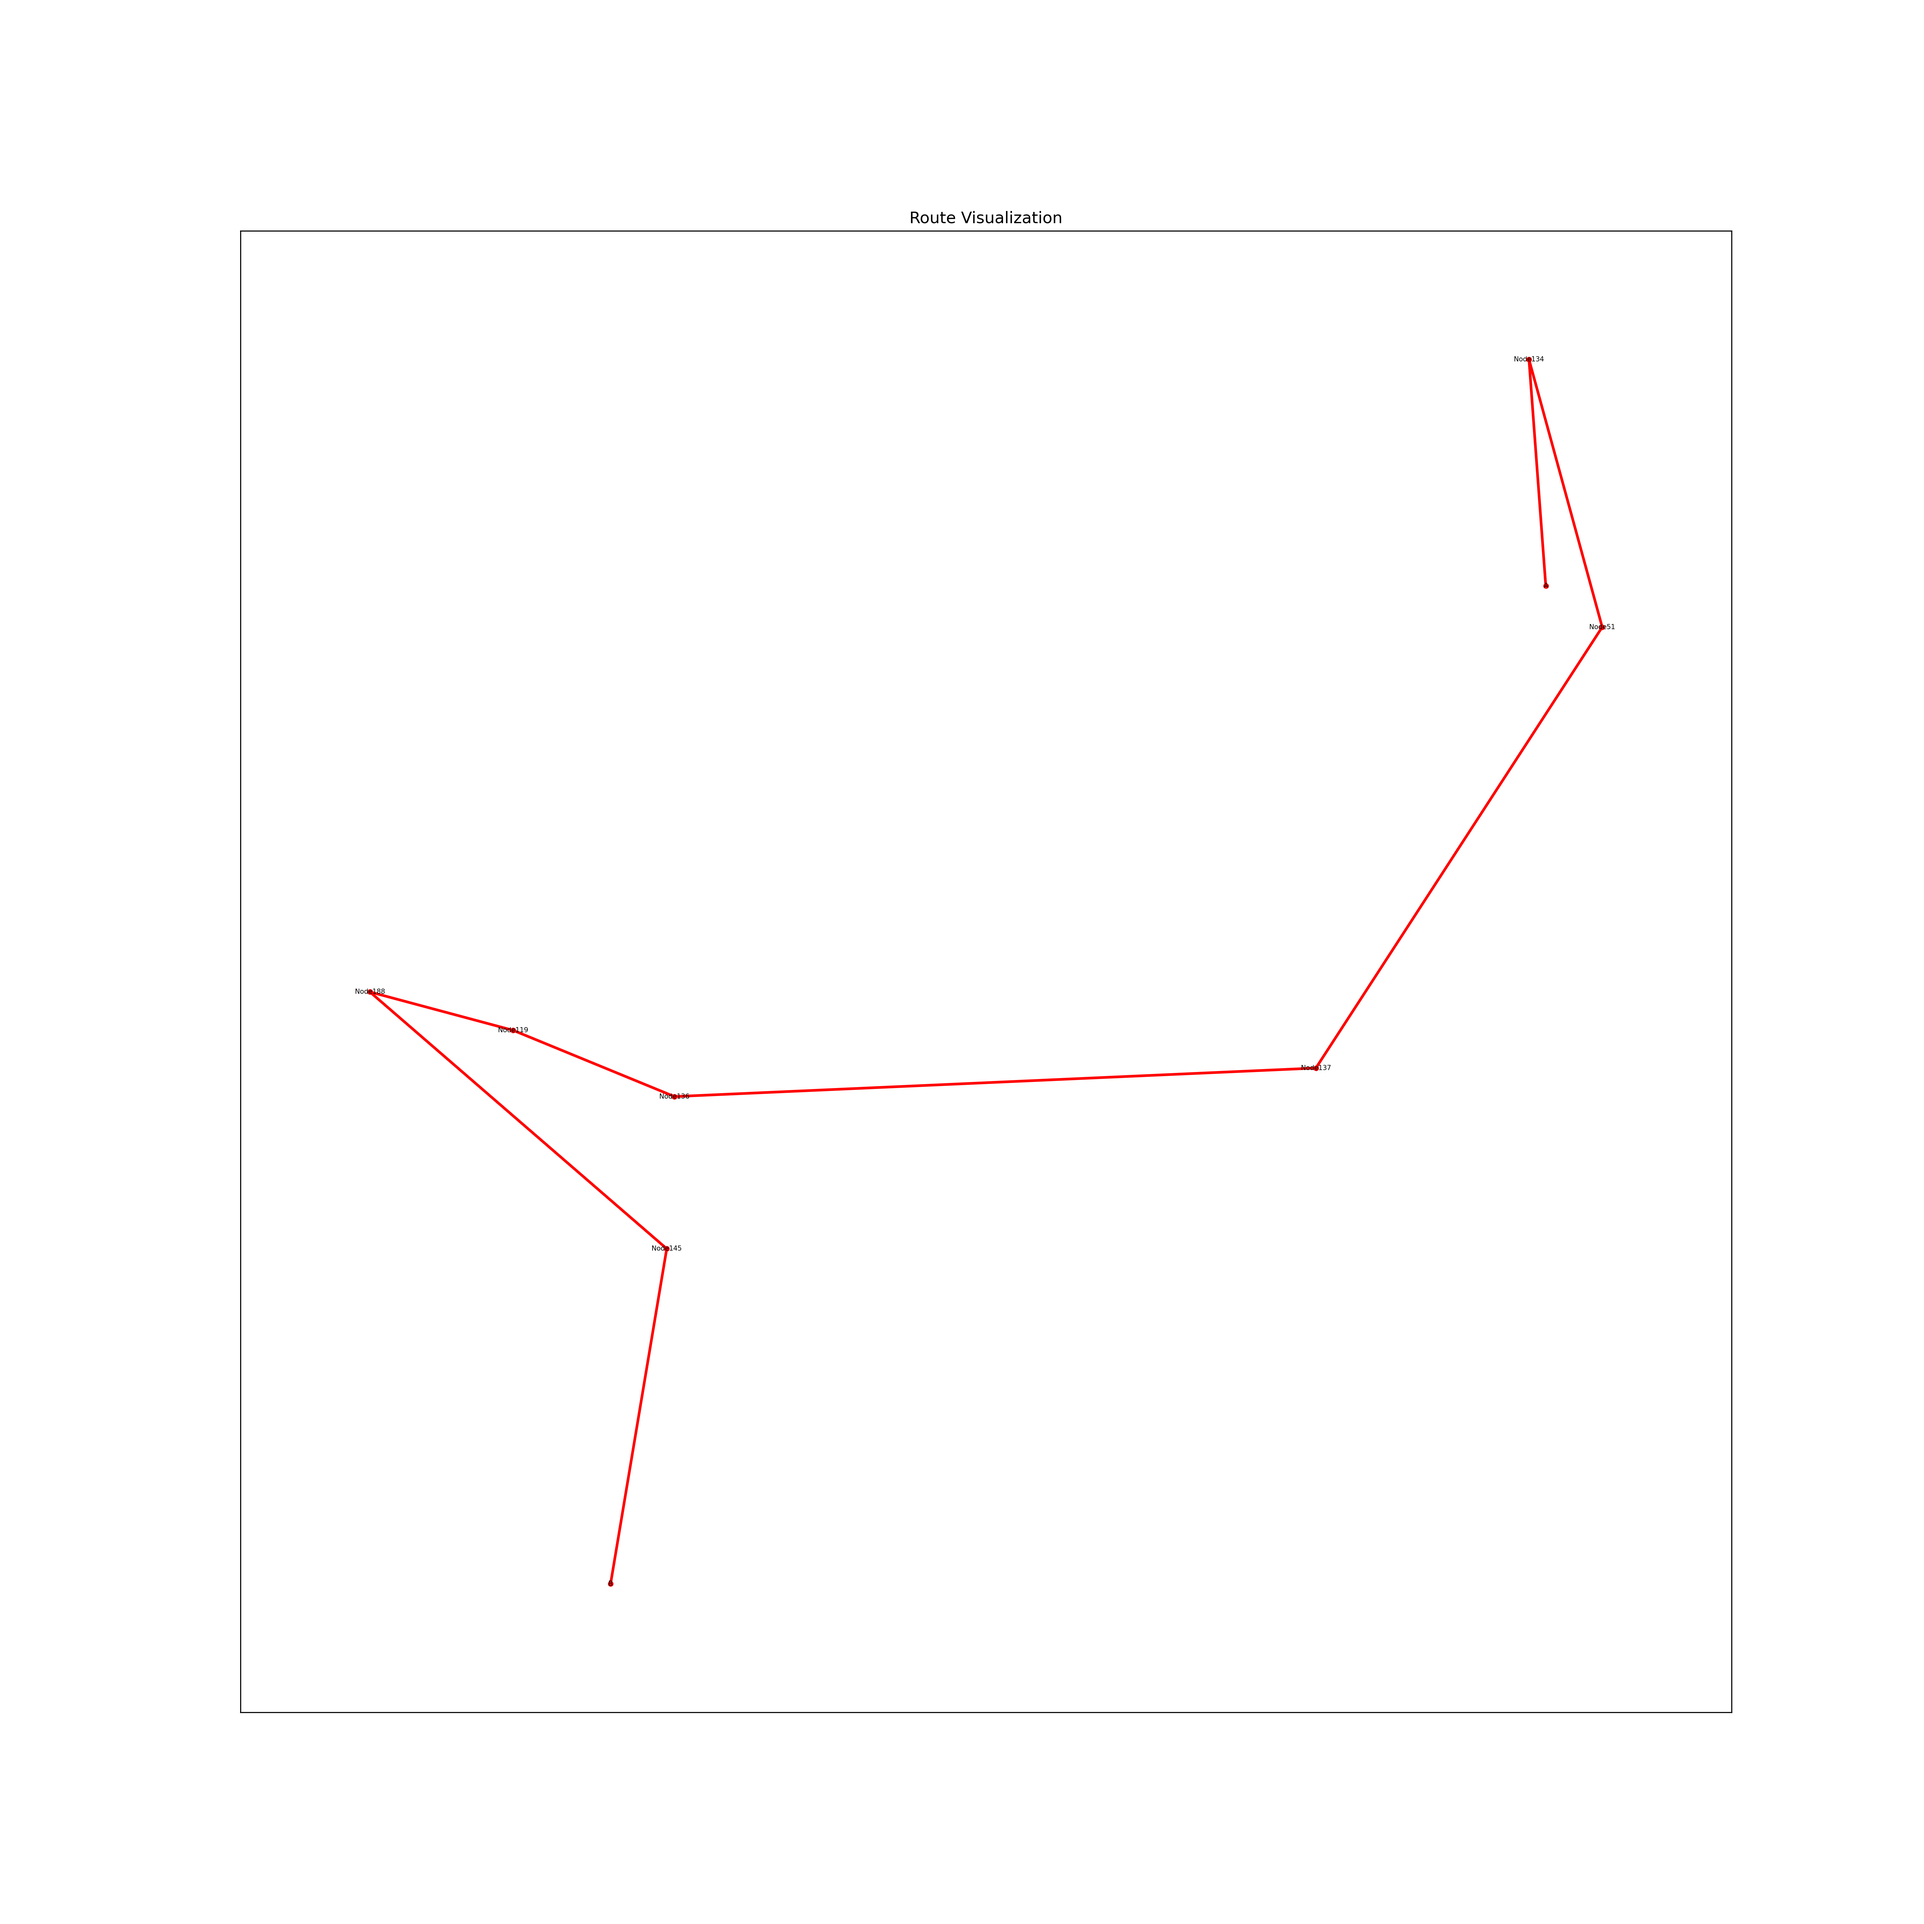
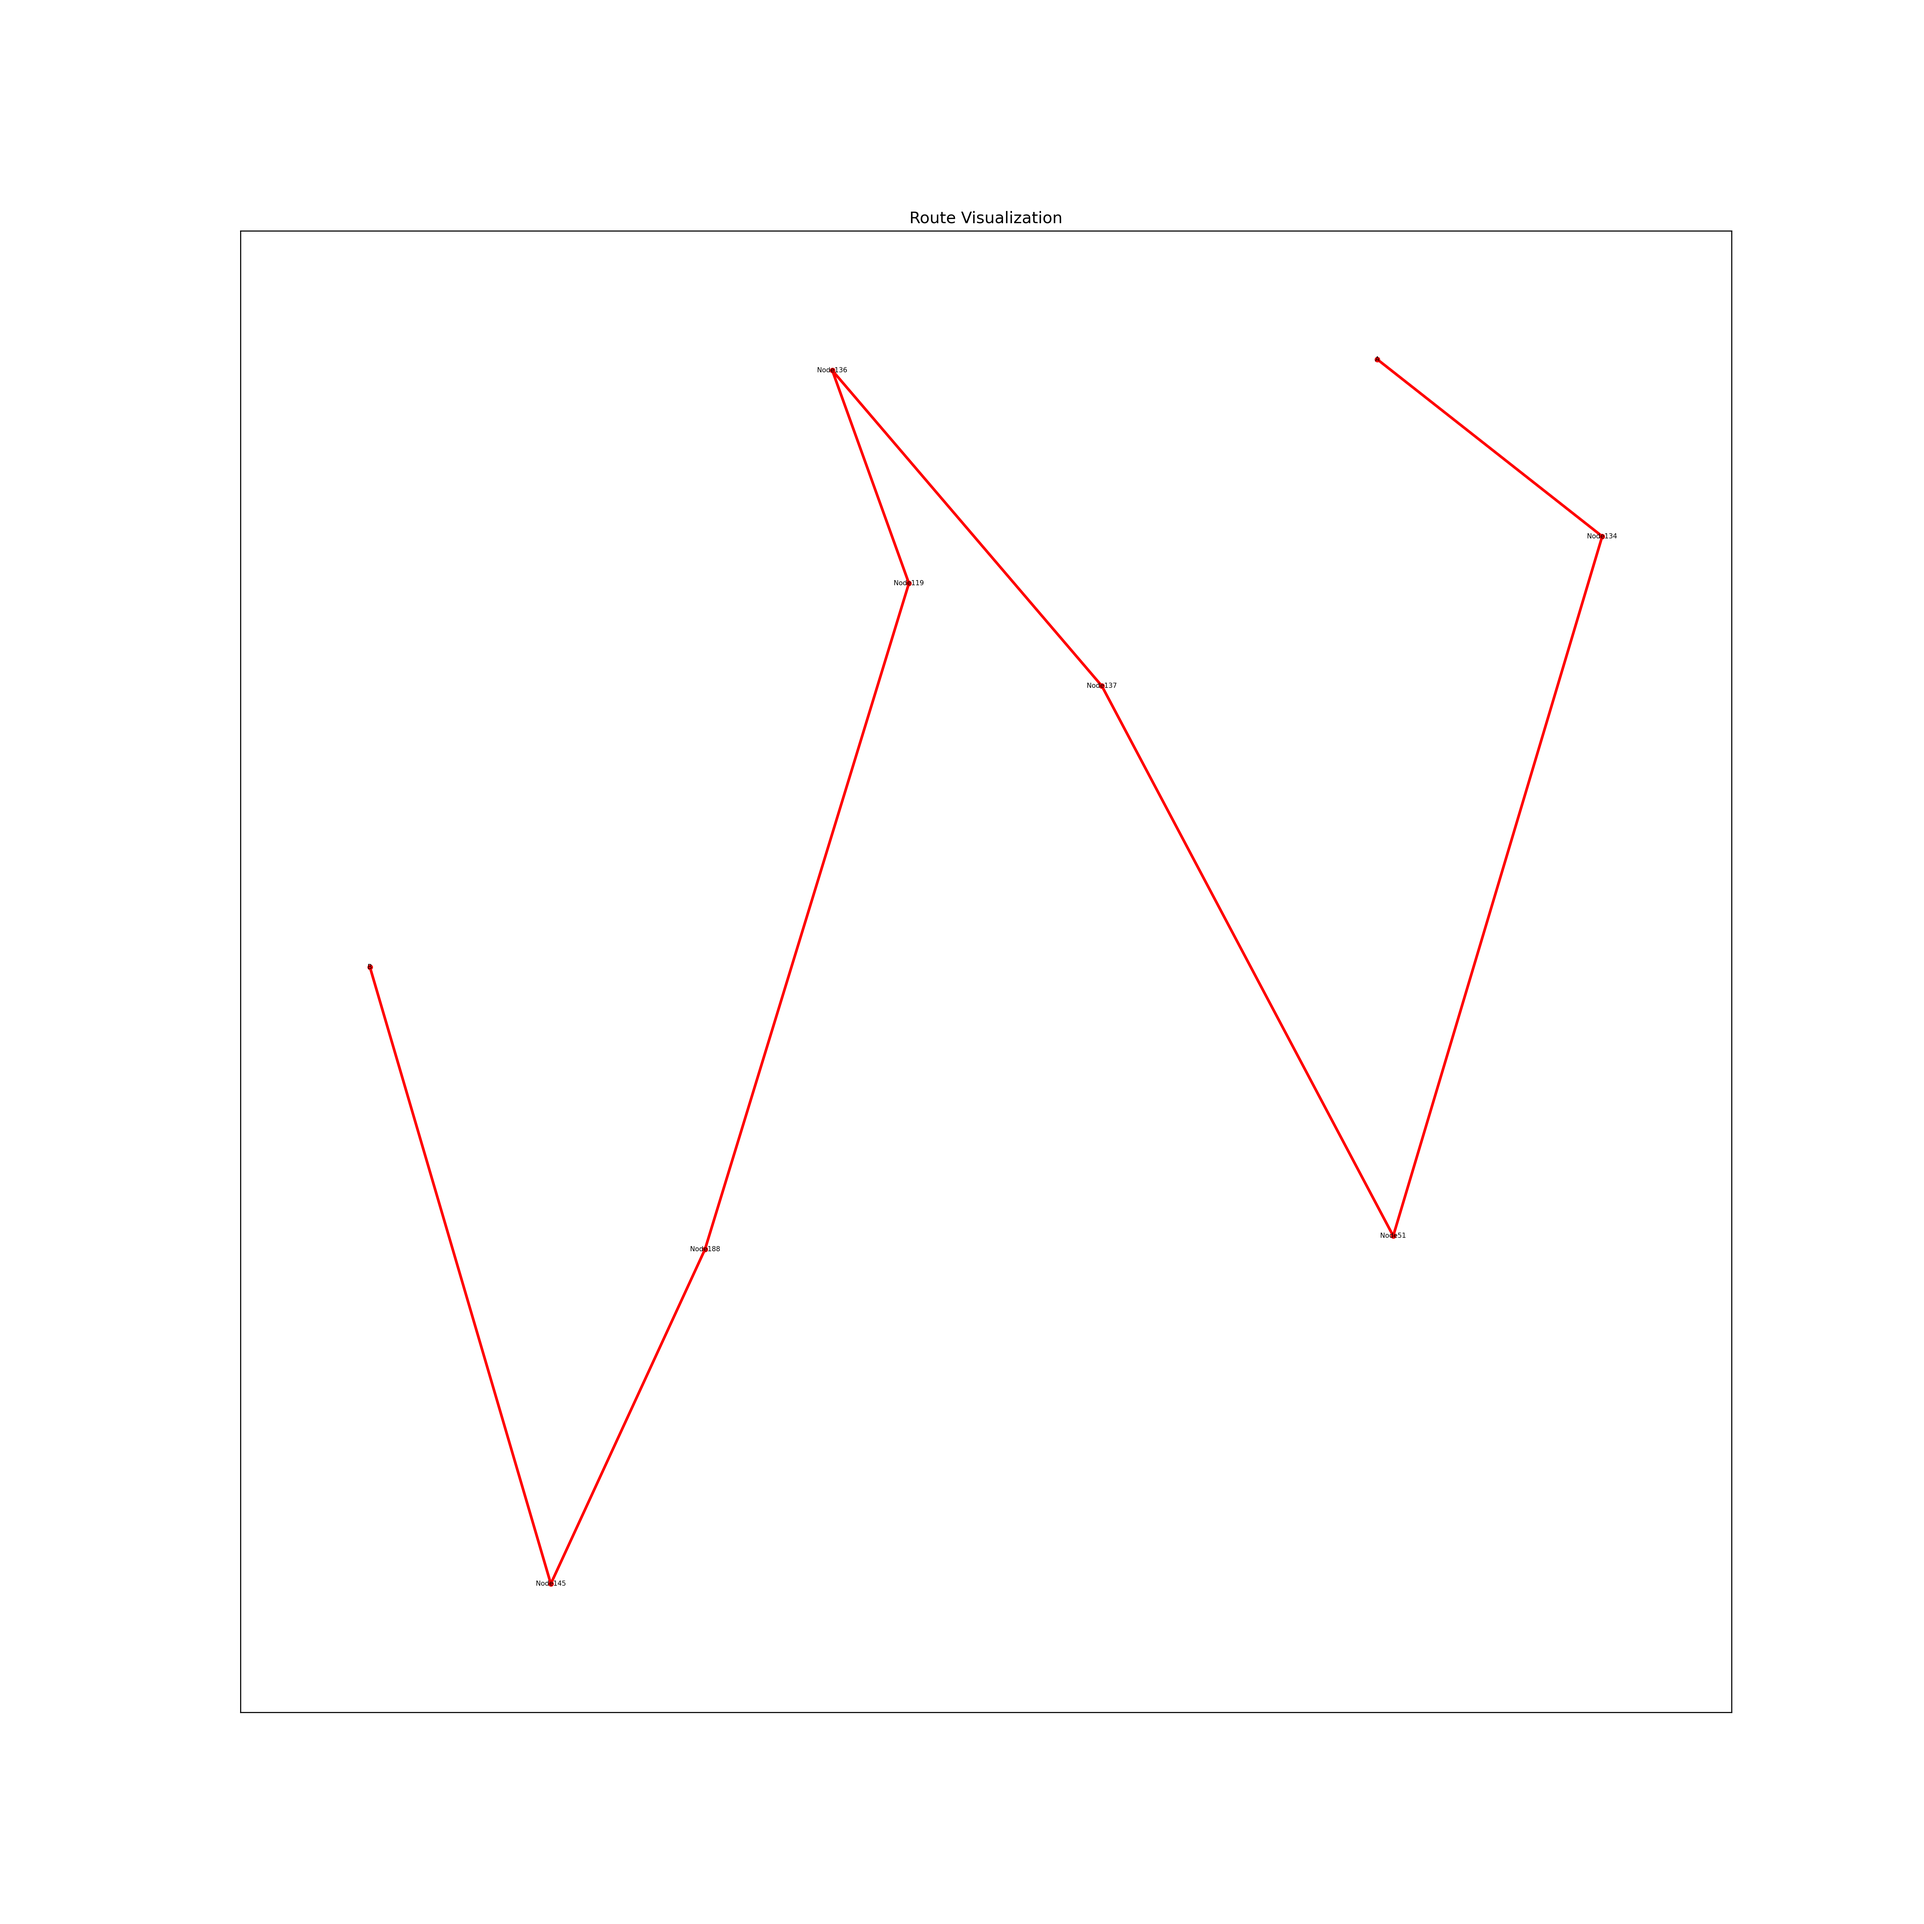
都完成了，你看看还有哪里需要修改的？5.31--周晨晓

diff --git a/frontend/src/components/Recommendations.vue b/frontend/src/components/Recommendations.vue
@@ -1,0 +1,143 @@
+<template>
+    <div class="recommendation-container">
+      <div class="header">
+        <h2>推荐目的地</h2>
+        <button class="search-button" @click="navigateToSearch">
+          🔍
+        </button>
+      </div>
+  
+      <div v-if="isLoading" class="loading">加载中...</div>
+      <div v-if="errorMessage" class="error-message">{{ errorMessage }}</div>
+      
+      <div v-if="!isLoading && recommendations.length" class="recommendations">
+        <div v-for="destination in recommendations" :key="destination.id" class="destination-card">
+          <img :src="destination.imageURL" :alt="destination.name" class="destination-image">
+          <div class="destination-info">
+            <h3>{{ destination.name }}</h3>
+            <p>{{ destination.description }}</p>
+            <p>评分: {{ destination.rating }} / 人气: {{ destination.popularity }}</p>
+            <p>兴趣: {{ destination.interests.join(', ') }}</p>
+          </div>
+        </div>
+      </div>
+      
+      <!-- 导航栏组件 -->
+      <Navbar />
+    </div>
+  </template>
+  
+  <script setup>
+  import { ref, onMounted } from 'vue';
+  import { useRouter } from 'vue-router';
+  import axios from 'axios';
+  import Navbar from './Navbar.vue'; // 导入导航栏组件
+  
+  const recommendations = ref([]);
+  const isLoading = ref(true);
+  const errorMessage = ref('');
+  const router = useRouter();
+  
+  const fetchRecommendations = async () => {
+    try {
+      const response = await axios.get('http://localhost:8000/api/recommendations/destinations/', {
+        params: {
+          popularity: 1000 // 可选参数，设定过滤热门目的地的阈值
+        }
+      });
+      recommendations.value = response.data;
+    } catch (error) {
+      console.error('获取推荐目的地失败:', error);
+      if (error.response && error.response.status === 400) {
+        errorMessage.value = error.response.data.error || 'Invalid query parameters.';
+      } else {
+        errorMessage.value = '获取推荐目的地失败，请稍后重试。';
+      }
+    } finally {
+      isLoading.value = false;
+    }
+  };
+  
+  const navigateToSearch = () => {
+    router.push({ name: 'HomePage' });
+  };
+  
+  onMounted(fetchRecommendations);
+  </script>
+  
+  <style scoped>
+  .recommendation-container {
+    width: 80%;
+    margin: auto;
+    padding: 20px;
+  }
+  
+  .header {
+    display: flex;
+    justify-content: space-between;
+    align-items: center;
+  }
+  
+  h2 {
+    margin: 0;
+  }
+  
+  .search-button {
+    background: none;
+    border: none;
+    font-size: 24px;
+    cursor: pointer;
+  }
+  
+  .loading {
+    text-align: center;
+    font-size: 18px;
+  }
+  
+  .error-message {
+    color: red;
+    text-align: center;
+    margin-top: 10px;
+  }
+  
+  .recommendations {
+    display: flex;
+    flex-wrap: wrap;
+    justify-content: space-around;
+  }
+  
+  .destination-card {
+    width: 300px;
+    border: 1px solid #ccc;
+    border-radius: 10px;
+    margin: 10px;
+    padding: 15px;
+    box-shadow: 0 0 10px rgba(0, 0, 0, 0.1);
+    transition: box-shadow 0.3s;
+  }
+  
+  .destination-card:hover {
+    box-shadow: 0 0 15px rgba(0, 0, 0, 0.2);
+  }
+  
+  .destination-image {
+    width: 100%;
+    height: 200px;
+    object-fit: cover;
+    border-radius: 10px;
+    margin-bottom: 10px;
+  }
+  
+  .destination-info {
+    text-align: left;
+  }
+  
+  .destination-info h3 {
+    margin: 0 0 10px;
+  }
+  
+  .destination-info p {
+    margin: 5px 0;
+  }
+  </style>
+  

diff --git a/frontend/src/components/Travel.vue b/frontend/src/components/Travel.vue
@@ -1,9 +1,4 @@
 <template>
-  <div>
-    <!-- 全局地图图片 -->
-    <img v-if="globalMapUrl" :src="globalMapUrl" alt="全局地图" class="global-map">
-  </div>
-
   <div class="travel-container">
     <div class="form-group">
       <select id="routeType" v-model="routeType" class="rounded-input">
@@ -41,15 +36,25 @@
 
     <div v-if="errorMessage" class="error-message">{{ errorMessage }}</div>
   </div>
+
+  <div>
+    <!-- 全局地图图片 -->
+    <img v-if="globalMapUrl" :src="globalMapUrl" alt="全局地图" class="global-map">
+    <!-- 路径图片 -->
+    <img v-if="routeImageUrl" :src="routeImageUrl" alt="路径图片" class="route-map">
+    <!-- 调试信息 -->
+    <pre v-if="routeImageUrl">路径图片 URL: {{ routeImageUrl }}</pre>
+  </div>
   
   <!-- 导航栏组件 -->
   <Navbar />
 </template>
 
 <script setup>
-import { ref, onMounted } from 'vue';
+import { ref } from 'vue';
 import axios from 'axios';
 import Navbar from './Navbar.vue'; // 导入导航栏组件
+import globalMapImage from './graph_visualization.png'; // 导入本地全局地图图片
 
 const startLocation = ref('');
 const endLocation = ref('');
@@ -63,17 +68,8 @@ const route = ref([]);
 const distance = ref(0);
 const time = ref(0);
 const steps = ref([]);
-const globalMapUrl = ref(''); // 全局地图图片的 URL
-
-const fetchGlobalMap = async () => {
-  try {
-    const response = await axios.get('http://localhost:8000/api/routes/global_map/');
-
-    globalMapUrl.value = response.data.image_url;
-  } catch (error) {
-    console.error('获取全局地图失败:', error);
-  }
-};
+const globalMapUrl = ref(globalMapImage); // 直接从本地获取全局地图图片
+const routeImageUrl = ref(''); // 路径图片的 URL
 
 const searchRoute = async () => {
   try {
@@ -103,11 +99,11 @@ const searchRoute = async () => {
 
     // 获取路径图片
     const routeImageResponse = await axios.post('http://localhost:8000/api/routes/routes_image/', {
-
       route: data.route
     });
 
-    globalMapUrl.value = routeImageResponse.data.image_url; // 更新全局地图图片的 URL
+    routeImageUrl.value = routeImageResponse.data.image_url; // 更新路径图片的 URL
+    console.log('路径图片 URL:', routeImageUrl.value); // 调试信息
   } catch (error) {
     console.error('查询失败:', error);
     if (error.response && error.response.status === 400) {
@@ -123,10 +119,6 @@ const searchRoute = async () => {
 const inputFocus = () => {
   errorMessage.value = ''; // 清除错误消息
 };
-
-onMounted(() => {
-  fetchGlobalMap(); // 在页面加载时获取全局地图图片
-});
 </script>
 
 <style scoped>
@@ -187,12 +179,20 @@ h2 {
 }
 
 /* 全局地图样式 */
-.global-map
-{
+.global-map {
   width: 100%;
-  max-width: 600px; /* 设置最大宽度以防止图片过大 */
+  max-width: 2000px; /* 设置最大宽度以防止图片过大 */
   display: block; /* 让图片居中显示 */
   margin: auto;
   margin-bottom: 20px; /* 添加底部边距 */
+}
+
+/* 路径图片样式 */
+.route-map {
+  width: 100%;
+  max-width: 2000px; /* 设置最大宽度以防止图片过大 */
+  display: block; /* 让图片居中显示 */
+  margin: auto;
+  margin-bottom: 20px; /* 添加底部边距 */    
 }
 </style>

diff --git a/frontend/src/components/HomePage.vue b/frontend/src/components/HomePage.vue
@@ -1,11 +1,8 @@
 <template>
   <div class="home-page">
-    <RecommendationList :destinations="recommendedDestinations" />
-
     <!-- 居中放置的搜索框和按钮 -->
     <div class="search-container">
-      <SearchBar @search="performSearch" @updateSearchType="updateSearchType"
-        @updateSearchParams="updateSearchParams" />
+      <SearchBar @search="performSearch" @updateSearchType="updateSearchType" @updateSearchParams="updateSearchParams" />
     </div>
 
     <SearchResults :results="searchResults" />
@@ -22,12 +19,14 @@
 
 <script setup>
 import { ref, watch } from 'vue';
+import { useRouter } from 'vue-router';
 import axios from 'axios';
-import RecommendationList from './RecommendationList.vue';
 import SearchBar from './SearchBar.vue';
 import SearchResults from './SearchResults.vue';
 import Navbar from './Navbar.vue';
 import Login from './Login.vue';
+
+const router = useRouter();
 
 const recommendedDestinations = ref([]);
 const searchResults = ref([]);
@@ -56,8 +55,12 @@ const performSearch = async (query) => {
     searchError.value = '';
   } catch (error) {
     console.error('搜索失败:', error);
-    // 显示搜索失败消息
-    searchError.value = '搜索失败，请稍后重试。';
+    if (error.response && error.response.status === 404) {
+      router.push({ name: 'NotFound' });
+    } else {
+      // 显示搜索失败消息
+      searchError.value = '搜索失败，请稍后重试。';
+    }
   }
 };
 

diff --git a/frontend/src/components/NotFound.vue b/frontend/src/components/NotFound.vue
@@ -1,0 +1,44 @@
+<template>
+    <div class="not-found">
+      <h1>页面未找到</h1>
+      <p>您要查找的页面不存在。</p>
+      <router-link to="/">返回主页</router-link>
+    </div>
+  </template>
+  
+  <script setup>
+  import { onMounted } from 'vue';
+  import { useRouter } from 'vue-router';
+  
+  const router = useRouter();
+  
+  onMounted(() => {
+    setTimeout(() => {
+      router.push({ name: 'HomePage' });
+    }, 5000); // 5秒后导航到首页
+  });
+  </script>
+  
+  <style scoped>
+  .not-found {
+    text-align: center;
+    margin-top: 50px;
+  }
+  
+  .not-found h1 {
+    font-size: 2em;
+    color: #ff4d4f;
+  }
+  
+  .not-found p {
+    margin-top: 20px;
+  }
+  
+  .not-found a {
+    margin-top: 20px;
+    display: inline-block;
+    color: #12b741;
+    text-decoration: underline;
+  }
+  </style>
+  

diff --git a/frontend/src/router/index.ts b/frontend/src/router/index.ts
@@ -7,12 +7,24 @@ import Travel from '../components/Travel.vue';
 import Diary from '../components/Diary.vue';
 import CreateDiary from '../components/CreateDiary.vue'; // 引入CreateDiary组件
 import UpdateDiary from '../components/UpdateDiary.vue'; // 引入UpdateDiary组件
+import Recommendations from '../components/Recommendations.vue';
+import NotFound from '../components/NotFound.vue';
 
 const routes = [
   {
     path: '/',
     name: 'HomePage',
     component: HomePage
+  },
+  {
+    path: '/notfound',
+    name: 'NotFound',
+    component: NotFound
+  },
+  {
+    path: '/recommendations',
+    name: 'Recommendations',
+    component: Recommendations
   },
   {
     path: '/register',

diff --git a/frontend/src/components/Navbar.vue b/frontend/src/components/Navbar.vue
@@ -6,7 +6,7 @@
 
 <template>
   <div class="navbar">
-    <router-link to="/" class="nav-item">首页</router-link>
+    <router-link to="/recommendations" class="nav-item">首页</router-link>
     <router-link to="/travel" class="nav-item">寻路</router-link>
     <router-link :to="diaryLink" class="nav-item">日记</router-link>
     <router-link :to="profileLink" class="nav-item">我的</router-link>

diff --git a/frontend/src/App.vue b/frontend/src/App.vue
@@ -11,7 +11,7 @@ import { useRouter } from 'vue-router';
 // 在页面加载后导航到HomePage组件
 onMounted(() => {
   const router = useRouter();
-  router.push({ name: 'HomePage' });
+  router.push({ name: 'Recommendations' });
 });
 </script>
 
